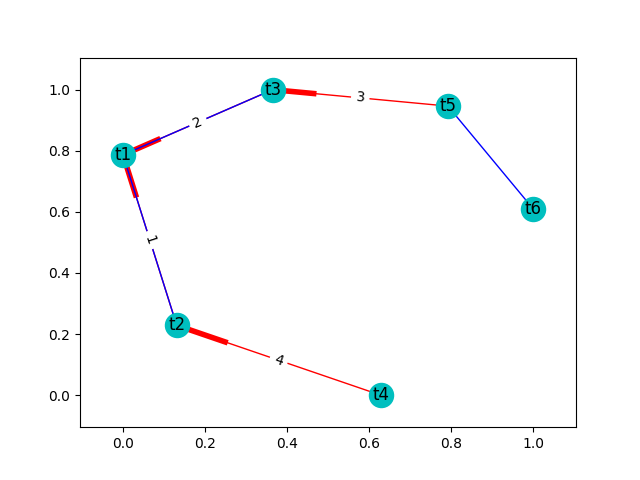
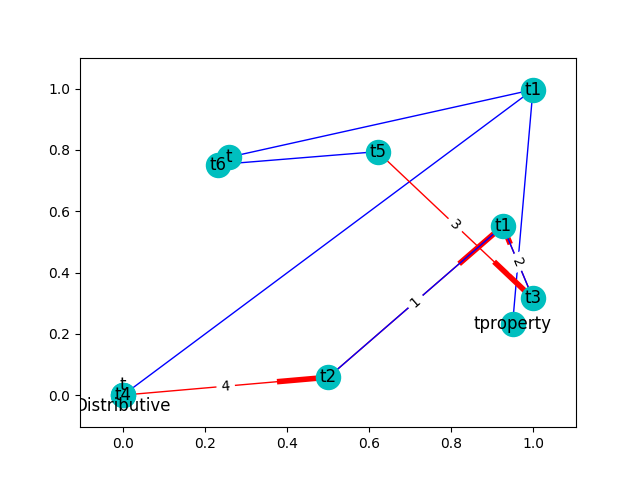
somewhat working

diff --git a/graph_init.html b/graph_init.html
@@ -1,0 +1,1 @@
+<img src="init_graph.png">

diff --git a/terminal_command.py b/terminal_command.py
@@ -1,6 +1,18 @@
 import subprocess, shlex
+
+
+folder_path = "/home/local/ASUAD/jchakra1/jaydeep/software/cplus2asp-3-1_x86_64/bin/"
+sw = "cplus2asp"
+in_file = "adaptiveSystem"
+out_file = "out.txt"
+
 def cmdLine():
-	cmd = shlex.split("cplus2asp adaptiveSystem query=0 > out.txt")
-	p = subprocess.Popen(cmd, stderr=subprocess.STDOUT, stdout=subprocess.PIPE)
+	command = [folder_path+sw,folder_path+in_file,folder_path+'query','query=0']#,folder_path+out_file]
+	#command = folder_path+sw+" "+ folder_path+in_file
+	#command = ['vi','out.txt']
+	print(command)
+	p = subprocess.Popen(command , stderr=subprocess.STDOUT, stdout=subprocess.PIPE)
 	out, err = p.communicate()
-	print out
+	f = open('out.txt','wb')
+	f.write(out)
+	print(out)

diff --git a/plot_init.py b/plot_init.py
@@ -1,0 +1,32 @@
+import webbrowser
+
+
+import networkx as nx
+import matplotlib.pyplot as plt
+
+
+def plotInit(labels,Edges):
+    G = nx.DiGraph()
+    G.add_edges_from(Edges)
+    
+    
+    black_edges = [edge for edge in G.edges()]
+    
+    
+    pos = nx.spring_layout(G)
+    nx.draw_networkx_nodes(G,pos, node_color='c')
+    nx.draw_networkx_labels(G,pos)
+    nx.draw_networkx_edges(G, pos, edgelist=black_edges,edge_color='b', arrows=False)
+    plt.savefig("init_graph")
+    
+    
+    f = open('graph_init.html','w')
+      
+    img_tag_1 = '<img src="{0}">'.format("init_graph.png")
+     
+    f.write(img_tag_1)
+    f.close()
+     
+    filename = 'graph.html'
+    webbrowser.open_new(filename)
+

diff --git a/parseDB.py b/parseDB.py
@@ -1,0 +1,28 @@
+from plot_init import plotInit
+
+def parseDb():
+	labels = []
+	edges = []
+	index = 1
+	with open('shortlistedTopics.md', 'r') as f:
+		lines = f.readlines()
+		for line in lines:
+			topic_list = line.split('.')
+			print(topic_list)
+			labels.append('t'+str(index))
+			dependencies = topic_list[1].strip().replace('\n','').split(' ')
+			print('depend'+str(dependencies))
+			for t in dependencies:
+				if(t!=''):
+					edges.append(('t'+str(index), 't'+str(t)))
+
+
+			index = index + 1
+	f = open('adaptiveSystem','a')
+	for edge in edges:
+		f.write('caused learnAfter('+edge[0]+','+edge[1]+').'+'\n')
+	print(labels)
+	print(edges)	
+
+	plotInit(labels,edges)
+

diff --git a/plot_graph.py b/plot_graph.py
@@ -2,14 +2,12 @@ import webbrowser
 
 
 import networkx as nx
-import numpy as np
 import matplotlib.pyplot as plt
-import plotly.plotly as py
 
 
 def plotGraoph(red_edges,red_edges_lbl):
     G = nx.DiGraph()
-    labels = {'t1','t2','t3','t4','t5'}
+    labels = ['t1','t2','t3','t4','t5']
     Edges = [('t1', 't2'), ('t1', 't3'), ('t4', 't2'), ('t5', 't3'),('t5','t6')]
     G.add_edges_from(Edges)
     

diff --git a/main.py b/main.py
@@ -1,5 +1,7 @@
 from read_out import parseOut
+from parseDB import parseDb
 from terminal_command import cmdLine
 
+#parseDb()
 cmdLine()
-parseOut()
+#parseOut()

diff --git a/shortlistedTopics.md b/shortlistedTopics.md
@@ -1,0 +1,41 @@
+Linear and quadratic expressions.
+Distributive property.
+Operations on exponents.
+GCF and LCM.
+Ratio of polynomials.4
+Complex fraction.4 5
+Monomial, binomial and trinomial, radical and rational expressions.
+Absolute value equation.
+Factoring a quadratic.
+Standard and scientific notation.
+Linear equation and linear inequality.1 2
+Finding the roots of a quadratic equation.9
+Word problems involving real-life problems.11 12
+Solving a proportion.4 5
+Distance, rate, time problems.11 13
+Complex Numbers.
+Operations on complex numbers.17
+Set builder and interval notation.
+Linear functions.1 11
+Graphing a cubic function.18
+Composition and quotient of two functions.19
+Domain and range, sum, difference, and product of functions.18 19
+Graphing a piecewise-defined function.19 21    
+Axes of symmetry for graphs.22 23    
+Even and odd functions.24    
+Translation and transformation of a graph.20 23    
+Inverse function.    
+Domain and range of a rational function.18    
+Graphing a parabola.    
+Solving a quadratic inequality.9 28    
+Finding maximum, minimum, vertex, intercepts and axis of symmetry of a parabola.24 29    
+Polynomial long division.14    
+Optimizing area by using a quadratic function.12 30    
+Complex conjugates.16 17    
+Solving an exponential equation.1    
+Compound interest.35    
+Graphing an exponential function.37    
+Natural and common logarithmic expressions.    
+Solving a system of linear equations.11    
+Identifying solutions to a system of linear equations.39    
+Solving a 2x2 or 3x3 system of linear equations.40
